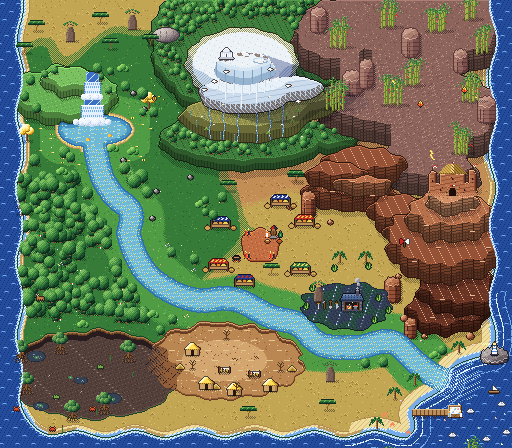
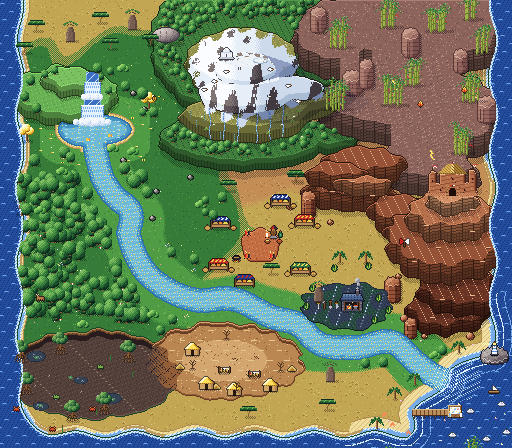
Ọ̀run: a neve do alto de Oxalá irregular, sem cara de prato
A neve cobre o cume e a encosta de trás, desce pelos paredões em sulcos com
a pedra escura aparecendo nas cristas (mais para baixo) e se desfaz em manchas
na encosta de urzes. Sem as bordas lisas, o paredão azul de uma cor só e os
riscos de gelo.

Claude-Session: https://claude.ai/code/session_01YNJz6pAgFVkCK3E9s9URPQ

Changed region(s): [[0.3438, 0.0625, 0.6562, 0.2812]]

diff --git a/README.md b/README.md
@@ -239,9 +239,10 @@ no teclado, "Aperte E". Nos diálogos e avisos, escreva `{interagir}`, `{atirar}
   Kilimanjaro sobe até a borda e encosta no planalto de Iansã (e desce até os degraus da serra de Xangô), que também
   continua para além da borda. As faixas altas de Oxalá (urzes, a crista de pedra e o cume) são desenhadas depois do
   planalto de Iansã e sobem por cima da beirada dele, e a sombra comprida do cume cai sobre Iansã e Xangô
-  (`sombra_do_kilimanjaro()`): Oxalá é o mais alto, depois Iansã, depois Xangô. O alto da montanha é todo de neve (o cume, a faixa
-  de pedra virou um paredão de gelo com a pedra molhada aparecendo embaixo, e a encosta de trás), com filetes da neve
-  derretendo e descendo pela encosta de urzes; no jogo, névoa e nuvens encostadas em volta do cume
+  (`sombra_do_kilimanjaro()`): Oxalá é o mais alto, depois Iansã, depois Xangô. O alto da montanha é todo de neve, irregular como numa
+  montanha de verdade: ela cobre o cume e a encosta de trás, desce pelos paredões em sulcos (com a pedra escura
+  aparecendo nas cristas, mais para baixo) e se desfaz em manchas na encosta de urzes, com filetes da neve
+  derretendo; no jogo, névoa e nuvens encostadas em volta do cume
   (`terra_firme()` no `gerar_mapa_mundo.py`). As três terras altas são uma escada só: a serra de Xangô sobe até o
   planalto de Iansã, e do planalto sobe a encosta de urzes e uma crista de pedra até o cume de Oxalá (as faixas de
   cima do Kilimanjaro são desenhadas depois de Iansã, por cima da beirada do planalto, e fazem sombra nele).
